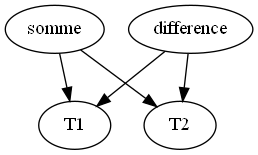
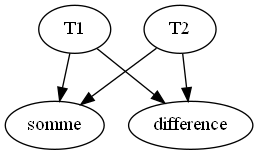
update projet terminé
inversion des tâches en bout de flèche

diff --git a/projet.py b/projet.py
@@ -139,7 +139,7 @@ class TaskSystem:
             # création des edges(flèches) en fonction des préferences
         for i in self.draw_:
             for preference in i.get('preferences'):
-                dot.edge(i.get('task').name, preference)
+                dot.edge(preference,i.get('task').name)
         # affichage
         dot.render("Systeme de tâches")
         print('draw done')
